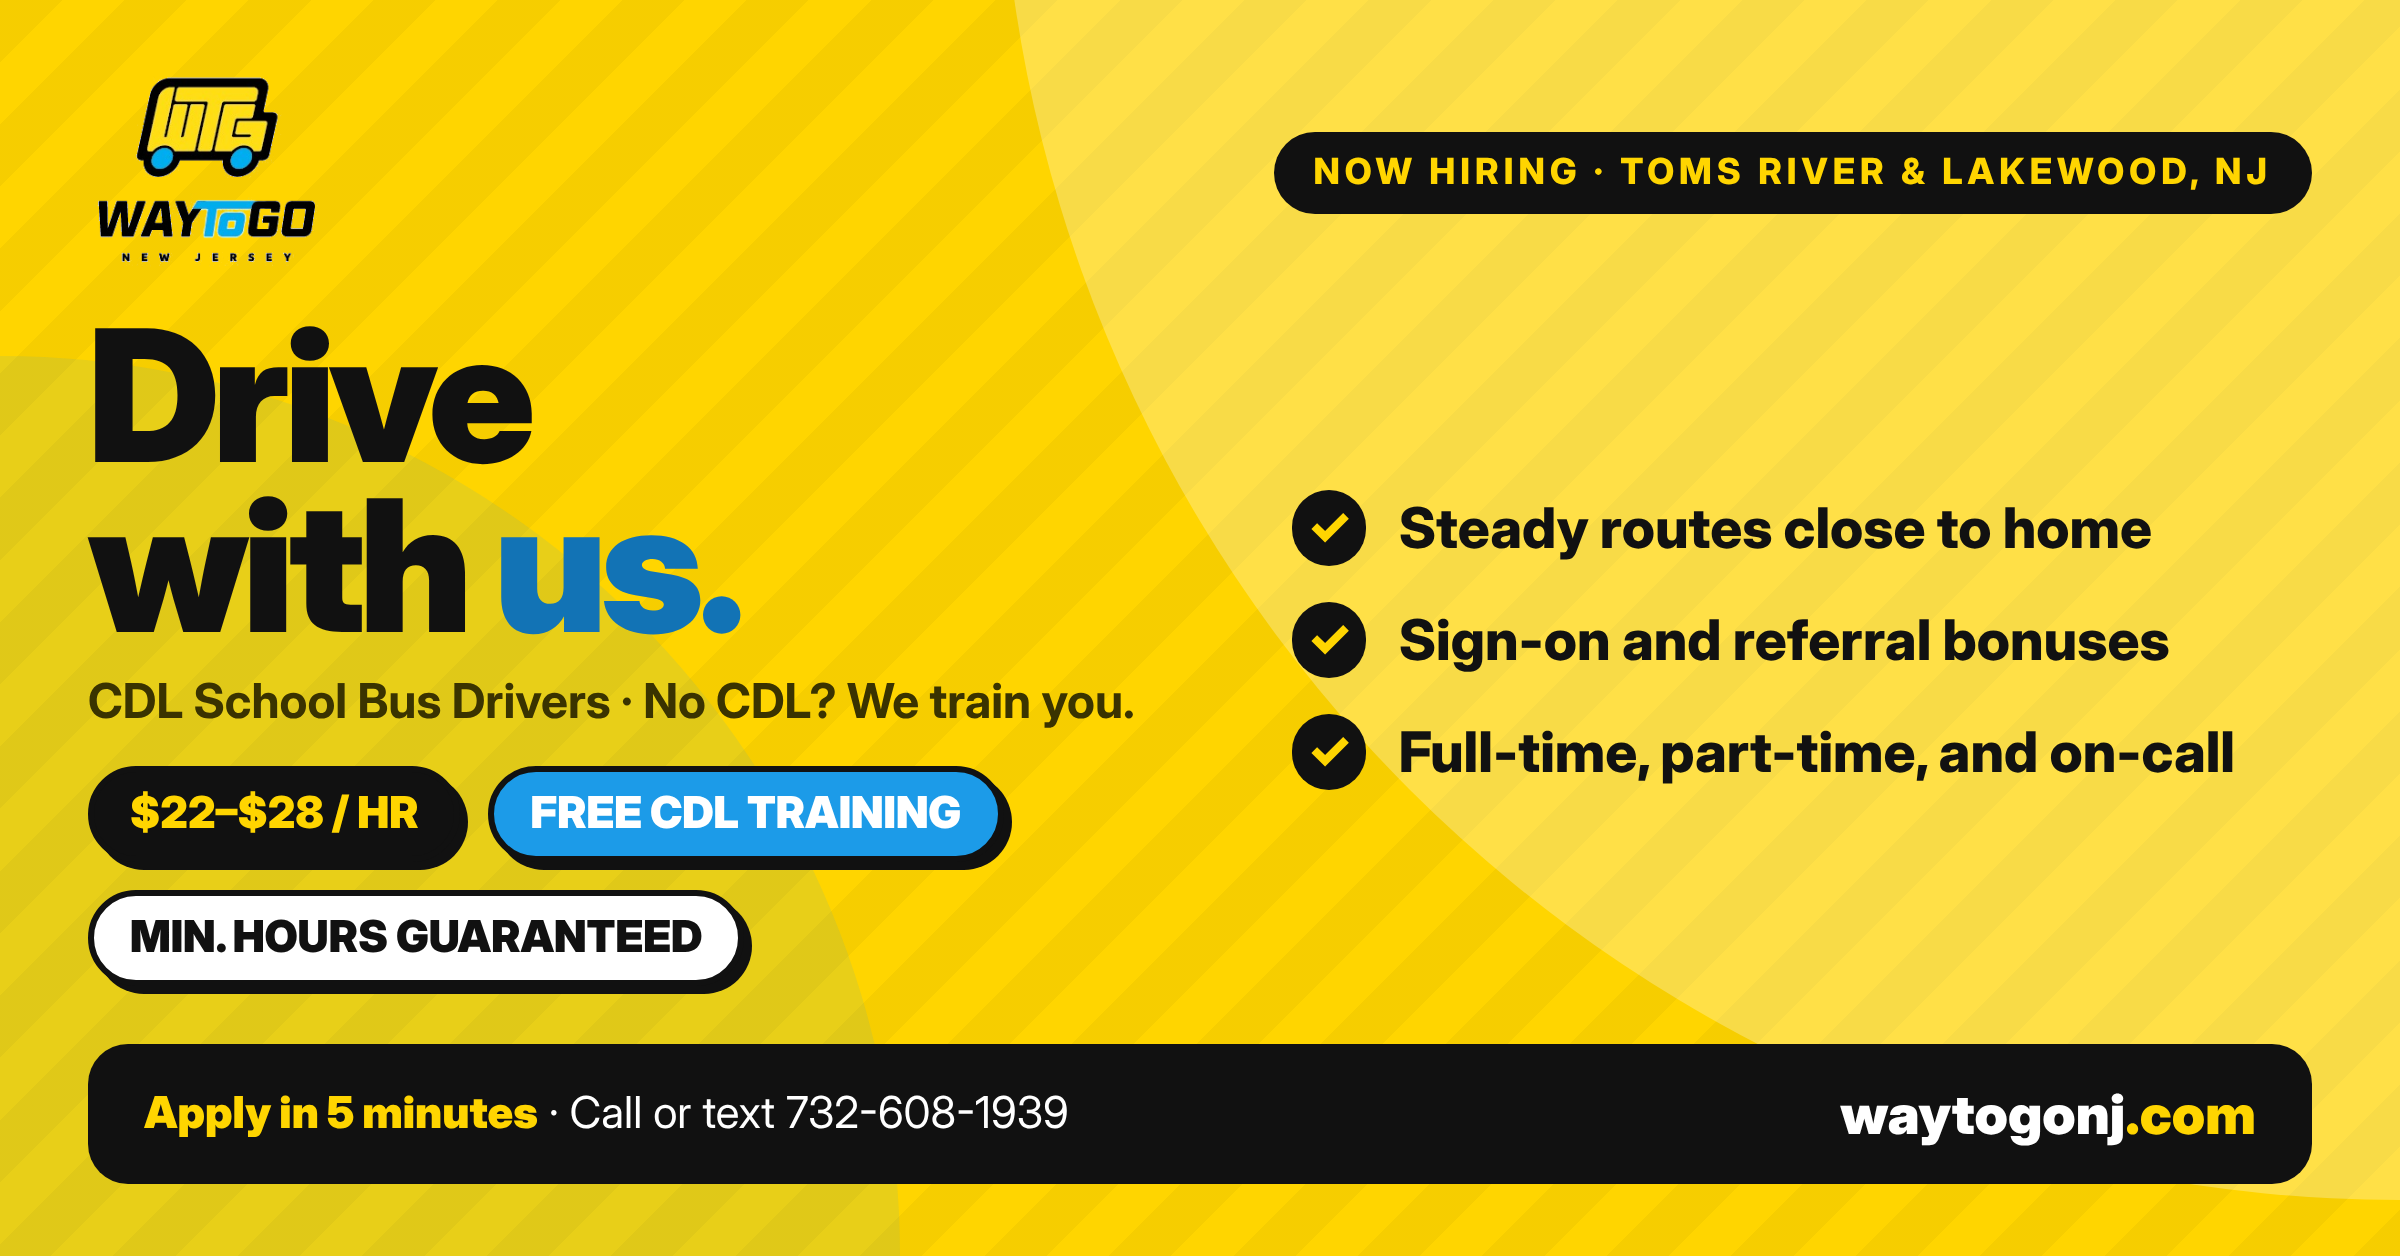
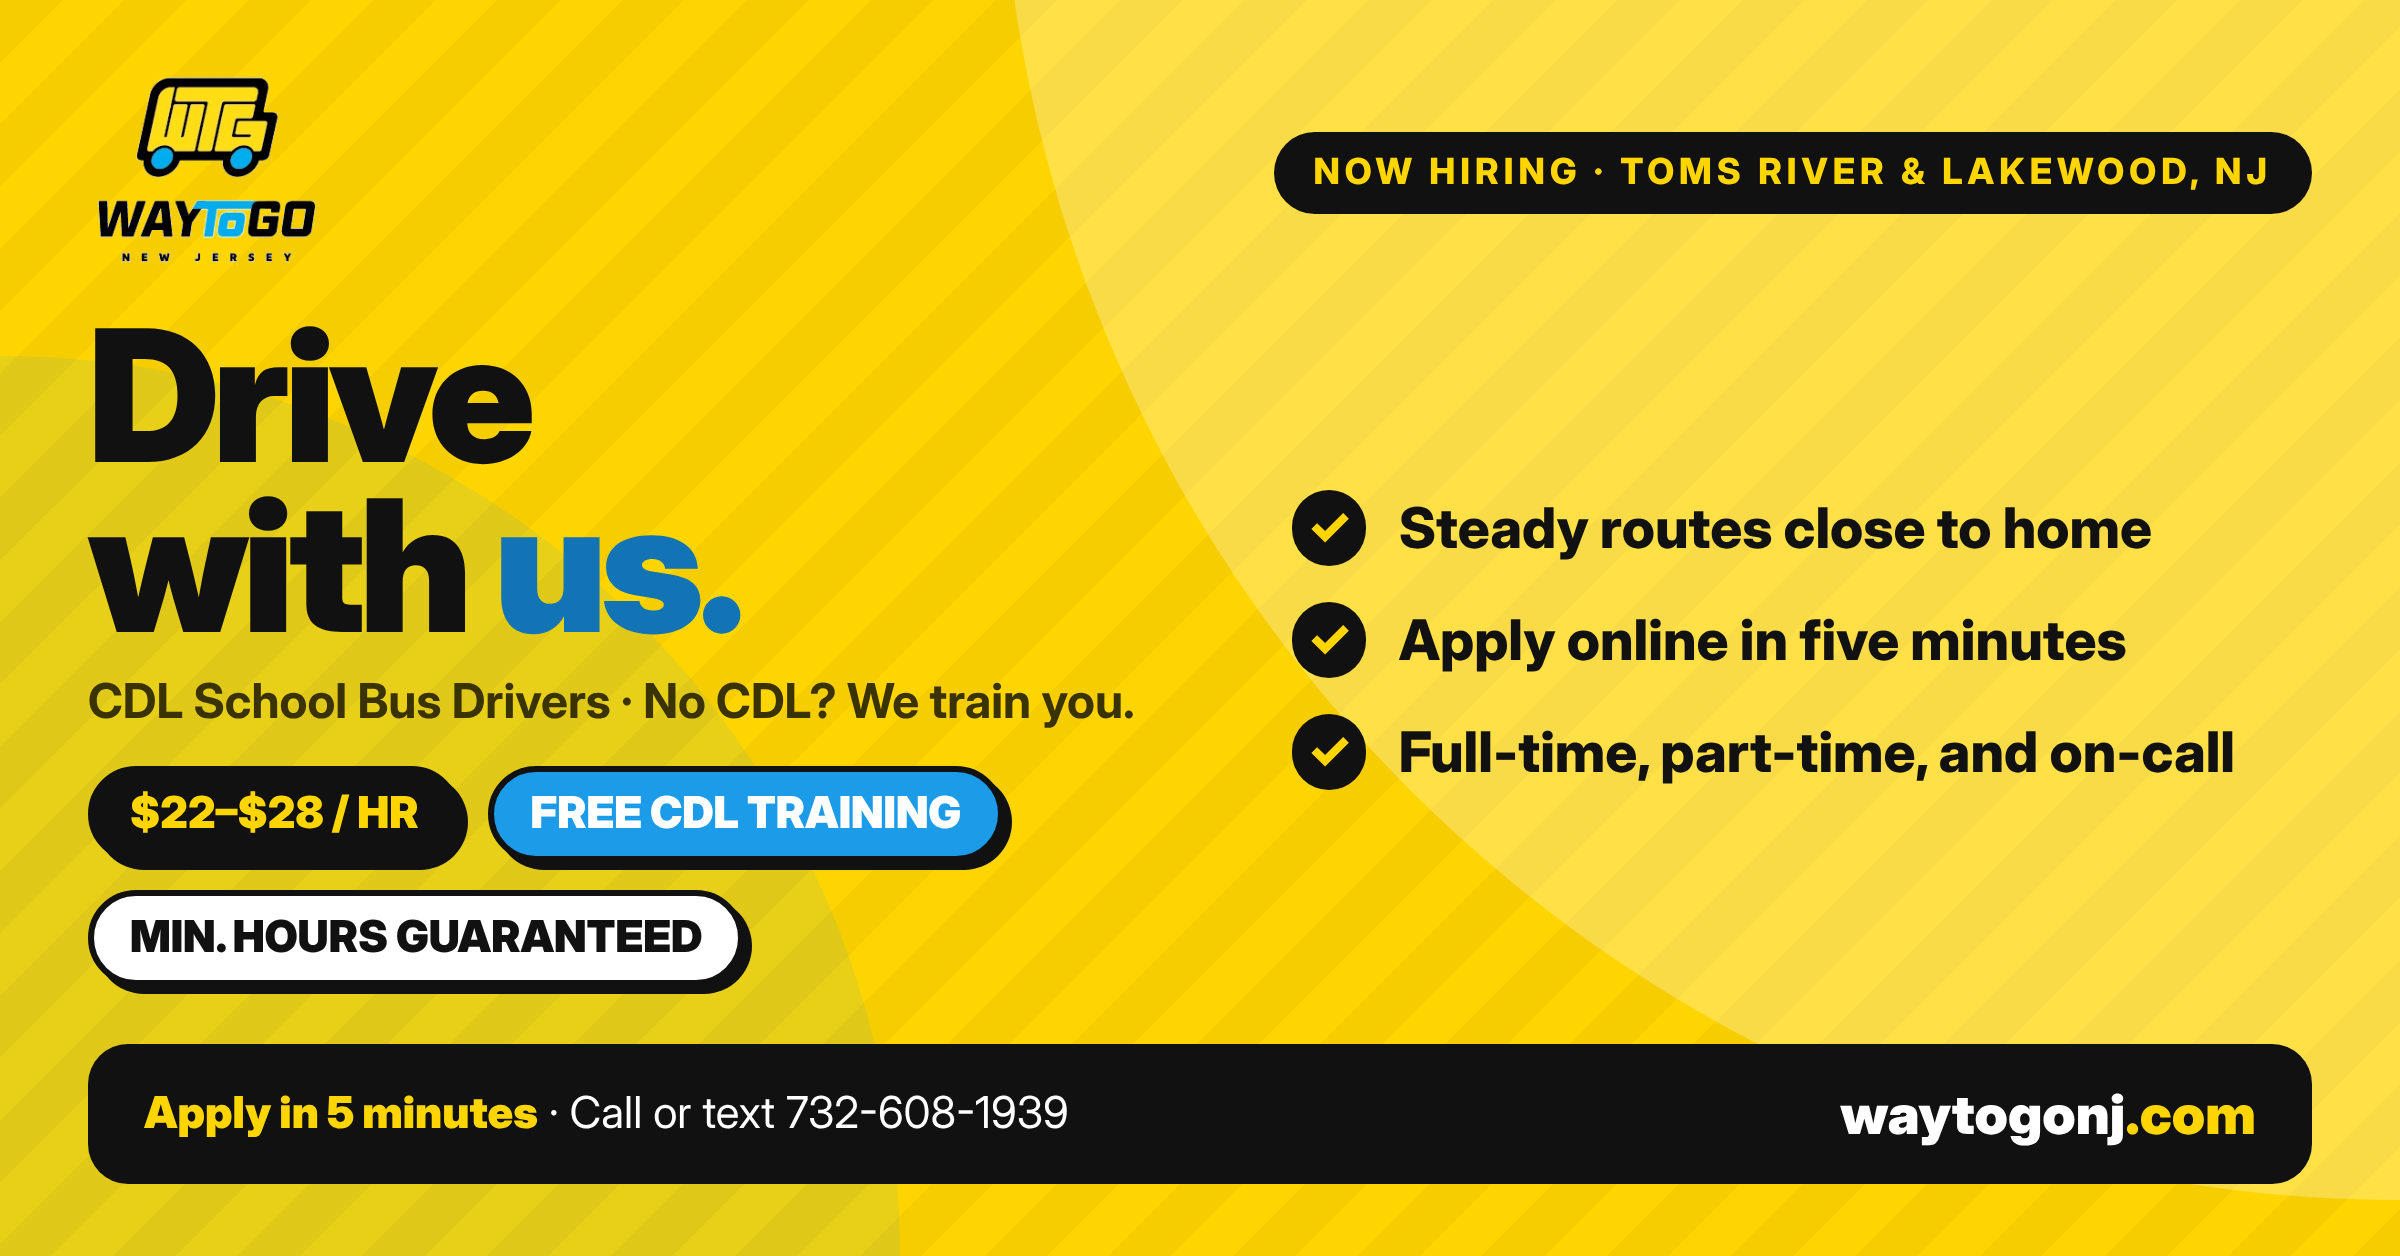
Remove sign-on and referral bonus wording everywhere
Claude-Session: https://claude.ai/code/session_01GpEHLGCwnEDuXkhiabGNJw

Changed region(s): [[0.5625, 0.4968, 0.9062, 0.5589]]

diff --git a/admin.html b/admin.html
@@ -215,7 +215,7 @@
         <div class="field"><label for="c_email">Hiring email</label><input id="c_email"></div>
         <div class="field"><label for="c_contact">Who to ask for</label><input id="c_contact"></div>
         <div class="field"><label for="c_pay">Pay line</label><input id="c_pay"></div>
-        <div class="field"><label for="c_bonus">Sign-on / referral bonus</label><input id="c_bonus"></div>
+        <div class="field"><label for="c_bonus">Bonus line (leave empty if none)</label><input id="c_bonus"></div>
         <div class="field span2"><label for="c_cdl">License line</label><input id="c_cdl"></div>
         <div class="field span2"><label for="c_hours">Hours line</label><input id="c_hours"></div>
       </div>
@@ -276,7 +276,7 @@
       <ul class="checks" style="margin-top:8px">
         <li><b>Free first, boost second.</b> Only boost a Facebook post ($5 a day for 5 days, Toms River + 15 miles) if a week of free posting brought fewer than 5 leads.</li>
         <li><b>Pay for ZipRecruiter only after the free trial proves it.</b> Under 5 real leads during the trial, cancel before it ends.</li>
-        <li><b>Referral bonus is the cheapest hire you will make.</b> Pay current drivers for every hire who lasts 90 days.</li>
+        <li><b>Referrals are the cheapest hires you will make.</b> Ask current drivers every Thursday to send the apply link to someone reliable.</li>
         <li><b>Answer within the hour.</b> Keep WhatsApp Business and Indeed notifications on and use the quick replies from the Posts tab.</li>
         <li><b>Say "free training provided" in every post.</b> Most good drivers do not have a CDL yet.</li>
       </ul>
@@ -320,7 +320,7 @@ $('l_next').value = addDays(2);
 
 /* ---------- company details ---------- */
 const CFIELDS = ['phone', 'wa', 'email', 'contact', 'pay', 'bonus', 'cdl', 'hours'];
-const DEFAULTS = { phone: '732-608-1939', wa: '17326081939', email: 'info@waytogonj.com', contact: 'Ask for Jay', pay: '$22 to $28 per hour, based on experience and endorsements', bonus: 'Sign-on bonus opportunities and a referral bonus program', cdl: 'CDL with P and S endorsements preferred, not required. No CDL? Free training provided.', hours: 'Full-time, part-time, and on-call positions. Minimum hours guaranteed.' };
+const DEFAULTS = { phone: '732-608-1939', wa: '17326081939', email: 'info@waytogonj.com', contact: 'Ask for Jay', pay: '$22 to $28 per hour, based on experience and endorsements', bonus: '', cdl: 'CDL with P and S endorsements preferred, not required. No CDL? Free training provided.', hours: 'Full-time, part-time, and on-call positions. Minimum hours guaranteed.' };
 let company = { ...DEFAULTS };
 const C = (k) => company[k] || '';
 function fillCompanyForm() { CFIELDS.forEach((k) => { $('c_' + k).value = company[k] || ''; }); }
@@ -378,8 +378,8 @@ Tap the link in bio or DM us "DRIVER" and we will text you today. 🚌
 `Hi [NAME], this is ${C('contact') ? C('contact').replace(/^Ask for /i, '') : 'the hiring team'} from Way To Go NJ in Toms River. We are hiring CDL school bus drivers, ${C('pay')}. ${C('cdl')} Would you be open to a 5-minute call this week? What time works for you?` },
   { k: 'follow', title: 'Follow-up text (lead went quiet)', where: '3 days after first contact, then once more a week later.', text:
 `Hi [NAME], Way To Go NJ here. Still have a route open near you, ${C('pay')}. Want me to hold it for you while you decide? Reply YES and I will send the next step, or apply at ${APPLY_URL}. ${C('phone') ? '- ' + C('phone') : ''}` },
-  { k: 'ref', title: 'Referral bonus text to current drivers', where: 'Every Thursday to your whole driver list.', text:
-`Team: we are still short on drivers. ${C('bonus') ? C('bonus') + '. ' : ''}Know anyone reliable who wants ${C('pay')} and steady work close to home? Send them this link and tell them to put your name under "Referred by": ${APPLY_URL}. Thank you for helping us grow. - Way To Go NJ` },
+  { k: 'ref', title: 'Referral text to current drivers', where: 'Every Thursday to your whole driver list.', text:
+`Team: we are still short on drivers. Know anyone reliable who wants ${C('pay')} and steady work close to home? Send them this link and tell them to put your name under "Referred by": ${APPLY_URL}. Thank you for helping us grow. - Way To Go NJ` },
   { k: 'quick', title: 'WhatsApp Business quick replies', where: 'Settings > Business tools > Quick replies. One per line pair.', text:
 `/pay → ${C('pay')}${b1}
 /hours → ${C('hours')}
@@ -444,7 +444,7 @@ const STEPS = [
   { k: 'gbp', t: 'Add a "We are hiring" post to Google Business Profile', cost: 'free', p: 'Anyone who searches Way To Go NJ sees it. Use the short template and the apply link.', links: [['Google Business Profile', 'https://business.google.com/']] },
   { k: 'onestop', t: 'List the job with the NJ One-Stop Career Center (Ocean County)', cost: 'free', p: 'State job boards and career counselors send CDL and transportation candidates to listed employers at no cost. Call or email the Ocean County One-Stop and send them the Indeed text.', links: [['NJ Career Services', 'https://www.nj.gov/labor/career-services/']] },
   { k: 'flyer', t: 'Print 50 flyers with the QR code', cost: 'under $20', p: 'Half page, big pay line, the QR code from the Posts tab, phone number in large type. Places: gas stations, laundromats, supermarkets, CDL schools, bus and truck yards, community bulletin boards, pizza shops near the industrial park. Ask every current driver to take 5.' },
-  { k: 'referral', t: 'Text every current driver the referral bonus message', cost: 'free', p: 'Drivers know drivers. The referral template is in the Posts tab. Repeat it every Thursday.' },
+  { k: 'referral', t: 'Text every current driver the referral message', cost: 'free', p: 'Drivers know drivers. The referral template is in the Posts tab. Repeat it every Thursday.' },
   { k: 'schedule', t: 'Schedule the first week of posts in Meta Business Suite', cost: 'free', p: 'Sunday night, 10 minutes: one Facebook and Instagram post per day for the week, rotating the three social templates. Then follow the Routine tab.' },
 ];
 let checklist = {};
@@ -470,7 +470,7 @@ const PLAN = [
     { k: 'wed1', t: 'Instagram Reel or photo (a bus, a driver, the yard). Same clip to Facebook.', copy: 'ig', open: 'https://www.instagram.com/' },
     { k: 'wed2', t: 'Post in 3 different groups (Howell, Brick, Manchester).', copy: 'group', open: 'https://m.facebook.com/groups/' } ] },
   { d: 'Thursday', tasks: [
-    { k: 'thu1', t: 'Referral reminder to current drivers.', copy: 'ref' },
+    { k: 'thu1', t: 'Referral text to current drivers.', copy: 'ref' },
     { k: 'thu2', t: 'Nextdoor and Google Business post.', copy: 'group', open: 'https://business.google.com/' },
     { k: 'thu3', t: 'Reply to every DM and comment. Update lead stages.', tab: 'leads' } ] },
   { d: 'Friday', tasks: [

diff --git a/drive.html b/drive.html
@@ -43,7 +43,7 @@
     "@context": "https://schema.org",
     "@type": "JobPosting",
     "title": "CDL School Bus Driver",
-    "description": "<p>WAY TO GO NJ LLC is hiring experienced and dependable CDL School Bus Drivers in Toms River, NJ. Earn $22 to $28 per hour based on experience and endorsements. Full-time, part-time and on-call positions. Minimum hours guaranteed. Sign-on bonus opportunities and referral bonus program. No CDL yet? Free training provided.</p><p>Requirements: at least 21 years old, clean driving record, able to pass a DOT physical, drug screening, fingerprinting and criminal background check. CDL with P and S endorsements preferred, not required.</p>",
+    "description": "<p>WAY TO GO NJ LLC is hiring experienced and dependable CDL School Bus Drivers in Toms River, NJ. Earn $22 to $28 per hour based on experience and endorsements. Full-time, part-time and on-call positions. Minimum hours guaranteed. No CDL yet? Free training provided.</p><p>Requirements: at least 21 years old, clean driving record, able to pass a DOT physical, drug screening, fingerprinting and criminal background check. CDL with P and S endorsements preferred, not required.</p>",
     "datePosted": "2026-10-16",
     "validThrough": "2027-04-16T23:59",
     "employmentType": ["FULL_TIME", "PART_TIME"],
@@ -72,7 +72,7 @@
     <p class="lead">WAY TO GO NJ LLC is hiring experienced and dependable CDL School Bus Drivers in Toms River, NJ. Earn from $22 to $28 per hour. <strong>Free training provided!</strong></p>
     <div class="facts">
       <div class="fact"><b>$22 to $28</b><span>per hour, based on experience and endorsements</span></div>
-      <div class="fact"><b>Bonuses</b><span>sign-on and referral bonus programs</span></div>
+      <div class="fact"><b>Steady work</b><span>full-time, part-time, and on-call</span></div>
       <div class="fact"><b>Guaranteed</b><span>minimum hours</span></div>
       <div class="fact"><b>Free training</b><span>provided. No CDL yet? Apply anyway</span></div>
     </div>
@@ -100,8 +100,6 @@
         <ul class="checks">
           <li>Starting pay of $25.00 per hour</li>
           <li>Earn up to $28.00 per hour based on experience and endorsements</li>
-          <li>Sign-on bonus opportunities</li>
-          <li>Referral bonus program</li>
         </ul>
       </div>
       <div class="card">
